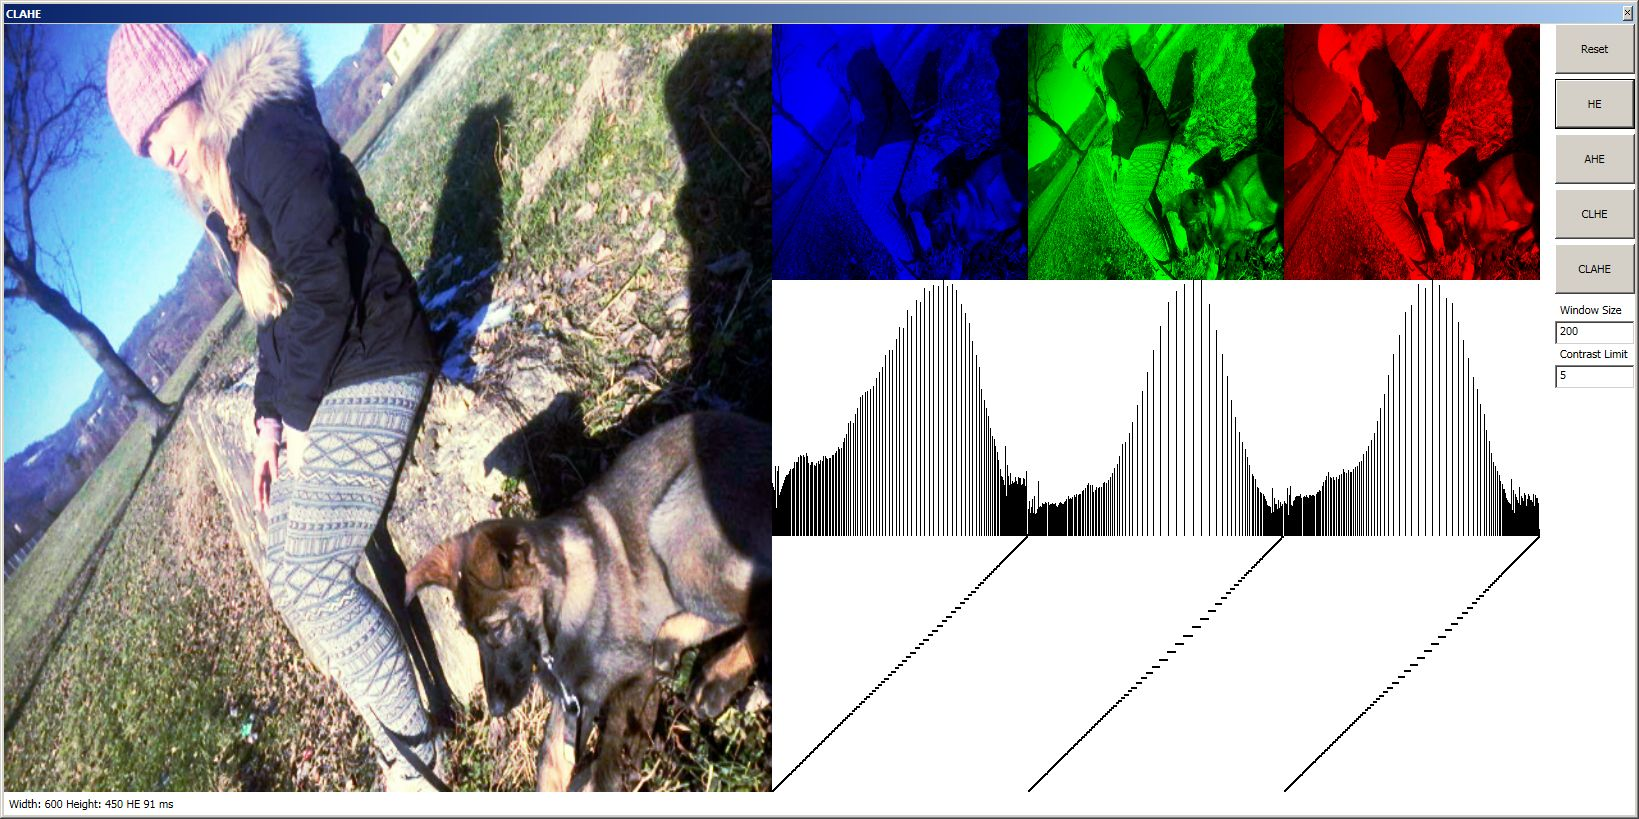
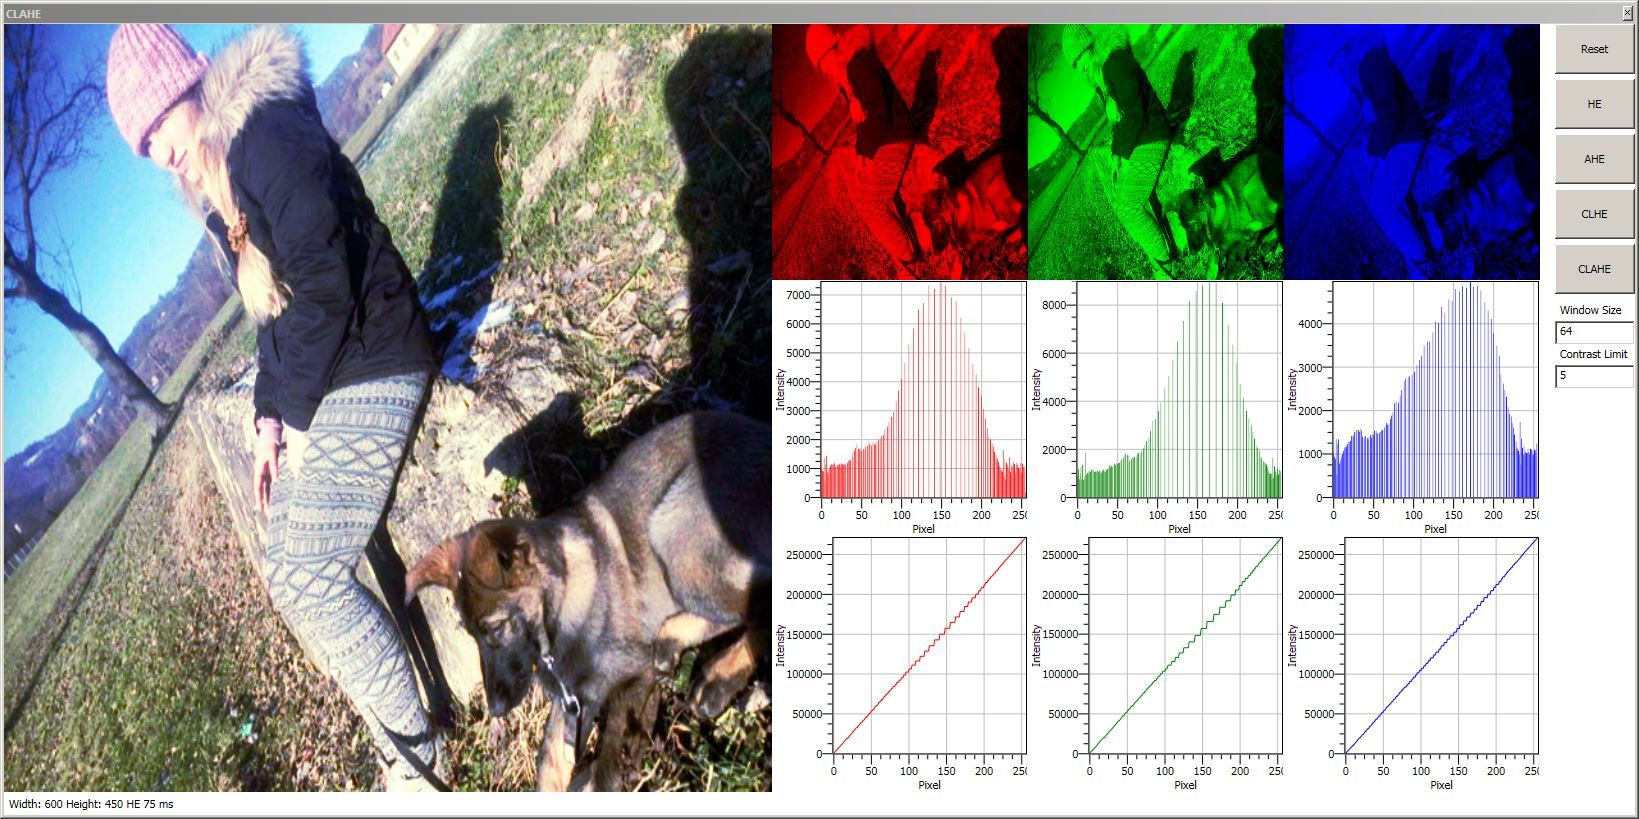
Updated example images

diff --git a/Vaja1_CLAHE/MainWindow.xaml.cs b/Vaja1_CLAHE/MainWindow.xaml.cs
@@ -97,7 +97,7 @@ namespace Vaja1_CLAHE
         {
             channelStack.Children.Clear();
 
-            for (int ch = 0; ch < numCh; ch++)
+            for (int ch = numCh - 1; ch >= 0; ch--)
             {
                 channelStack.Children.Add(Utils.GetImageView(channelImages[ch], channelStack.Width / 3, channelStack.Height));
                 channelImages[ch].Dispose();
